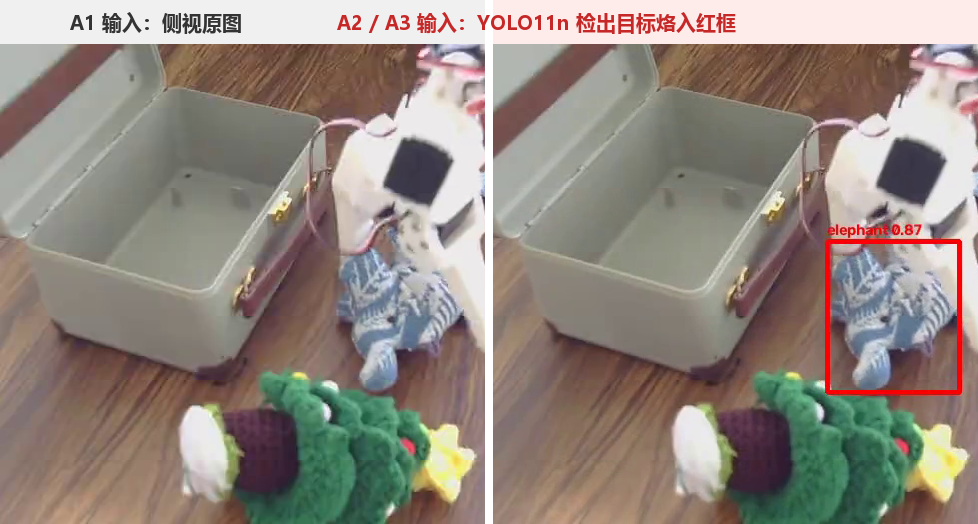
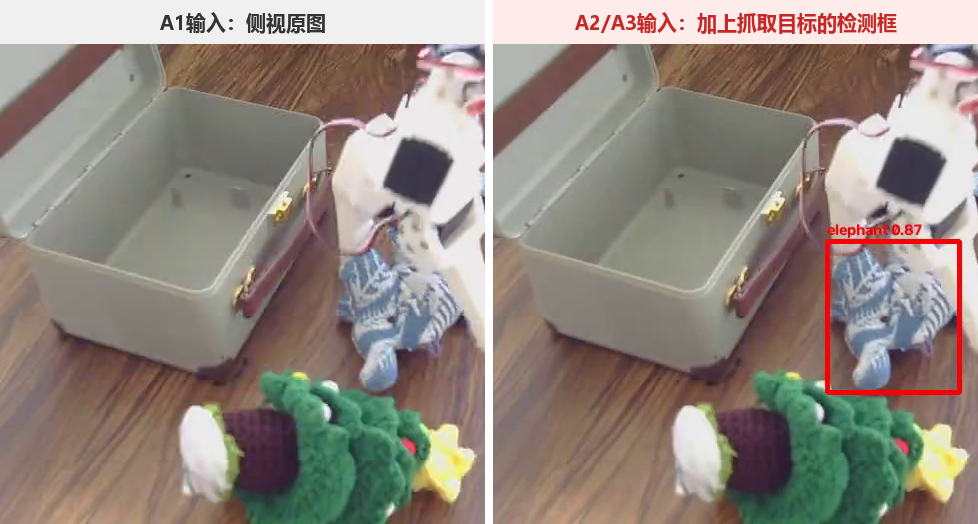
docs: 修正消融对比图标题对齐，精简措辞

Changed region(s): [[0.0613, 0.0, 0.9202, 0.0611]]

diff --git a/README.md b/README.md
@@ -42,7 +42,7 @@
 
 ## 数据集
 
-**[reyqiao/lerobot_reyqiao_toy](https://huggingface.co/datasets/reyqiao/lerobot_reyqiao_toy)** — HuggingFace Datasets
+**自采数据集[reyqiao/lerobot_reyqiao_toy](https://huggingface.co/datasets/reyqiao/lerobot_reyqiao_toy)** — HuggingFace Datasets
 
 | 指标 | 数值 |
 |---|---|
@@ -65,10 +65,6 @@ aggregate_datasets(
     aggr_root=OUT,
 )
 ```
-
-> 注意用 `aggregate_datasets()` 而不是 `merge_datasets()`：后者在末尾会把结果重新以
-> `LeRobotDataset` 打开一遍，那条路径依赖 `torchcodec`；前者只用 `pyav` + `ffmpeg`。
-
 ---
 
 ## 系统架构
@@ -187,8 +183,8 @@ python deploy/drive_so101_dual.py --model A1 --toy tree --move --max-cycles 20 -
 | **A2** | `..._redbox` | **YOLO11n 检出目标后烙入红框** | 同上（不变） |
 | **A3** | `..._redbox_a3` | 同 A2 | `Pick up the {toy} **in red box** and place it into the box` |
 
-动机：双相机下侧视视角目标很小，模型容易把注意力放到机械臂自身运动上。
-用 YOLO 把目标直接标注在输入上，等于**把「看哪里」这件事从模型里摘出去**，
+动机：测试发现模型容易把注意力放到机械臂自身运动上，而越过语言指令指定的抓取目标。
+用 YOLO 把目标直接标注在输入上，等于**把「看哪里」这件事直接告诉模型**，
 让策略网络专注学「怎么动」。A3 进一步用语言显式指代红框，测试语言是否能与视觉线索绑定。
 
 ![A1 与 A2/A3 的侧视输入对比](assets/a2a3_redbox_input.png)
@@ -254,7 +250,7 @@ python data/lerobot_to_octo_frames.py --root ... --toy ... --out ... --verify-on
 ### SmolVLA A1 / A2 / A3 成功率
 
 每个模型各跑 **15 次真机测试**（大象 / 树 / 球 每类 5 次），单次 `--max-cycles 20 --exec-steps 15`。
-下表是这 15 次的逐次明细,M,L,R分别摆放在中间，左边，右边。
+下表是这 15 次的逐次明细。其中M,L,R代表玩具分别摆放在中间，左边，右边。
 
 | 目标玩具 | 第 N 次 | A1 | A2 | A3 |
 |:--|:-:|:-:|:-:|:-:|
@@ -285,7 +281,7 @@ python data/lerobot_to_octo_frames.py --root ... --toy ... --out ... --verify-on
 | **A2** | **11** | 15 | **73.3 %** |
 | **A3** | **12** | 15 | **80.0 %** |
 
-> A1 → A2 提升 **+40.0** 个百分点，来自把「目标在哪」从模型里摘出去；
+> A1 → A2 提升 **+40.0** 个百分点，来自把「目标在哪」直接告诉模型；
 > A2 → A3 只再涨 **+6.7** 个百分点，说明额外的语言指代（"in red box"）带来轻微收益 ——
 > 但主要增益来自视觉注意力的显式注入。
 > 分玩具看：A1 在 ball 上 **0 / 5**（目标最小、最不好抓取），A2/A3 把它拉到 3 / 5 以上。
@@ -318,7 +314,7 @@ A1 却抓成了正前方的 tree。**A1 过拟合了示教轨迹**，
 
 ### 推理耗时
 
-云端推理服务器为 RTX 4090 24G。两个模型都跑「云端一次规划 → 本地执行若干步」的闭环。
+云端推理服务器为 RTX 4090 24G。两个模型都跑「云端规划 → 本地执行」的闭环。
 
 **SmolVLA（A1 / A2 / A3）**
 
@@ -400,7 +396,7 @@ pickplace-so101/
 
 | 其他组件 | 说明 |
 |---|---|
-| SmolVLA 基座 | `lerobot/smolvla_base`（450M，SmolVLM2-500M 骨干）；A1/A2/A3 为**微调**，非 LoRA |
+| SmolVLA 基座 | `lerobot/smolvla_base`（450M）；A1/A2/A3 为**微调**，非 LoRA |
 | Octo | 官方 checkpoint + 自定义 LoRA fork（Q/V 适配器 + 可加载的 base kernel 路径） |
 | YOLO | ultralytics YOLO11n |
 | 推理硬件 | AutoDL RTX 4090（同时常驻 3 个 SmolVLA + 1 个 Octo + 1 个 YOLO） |
